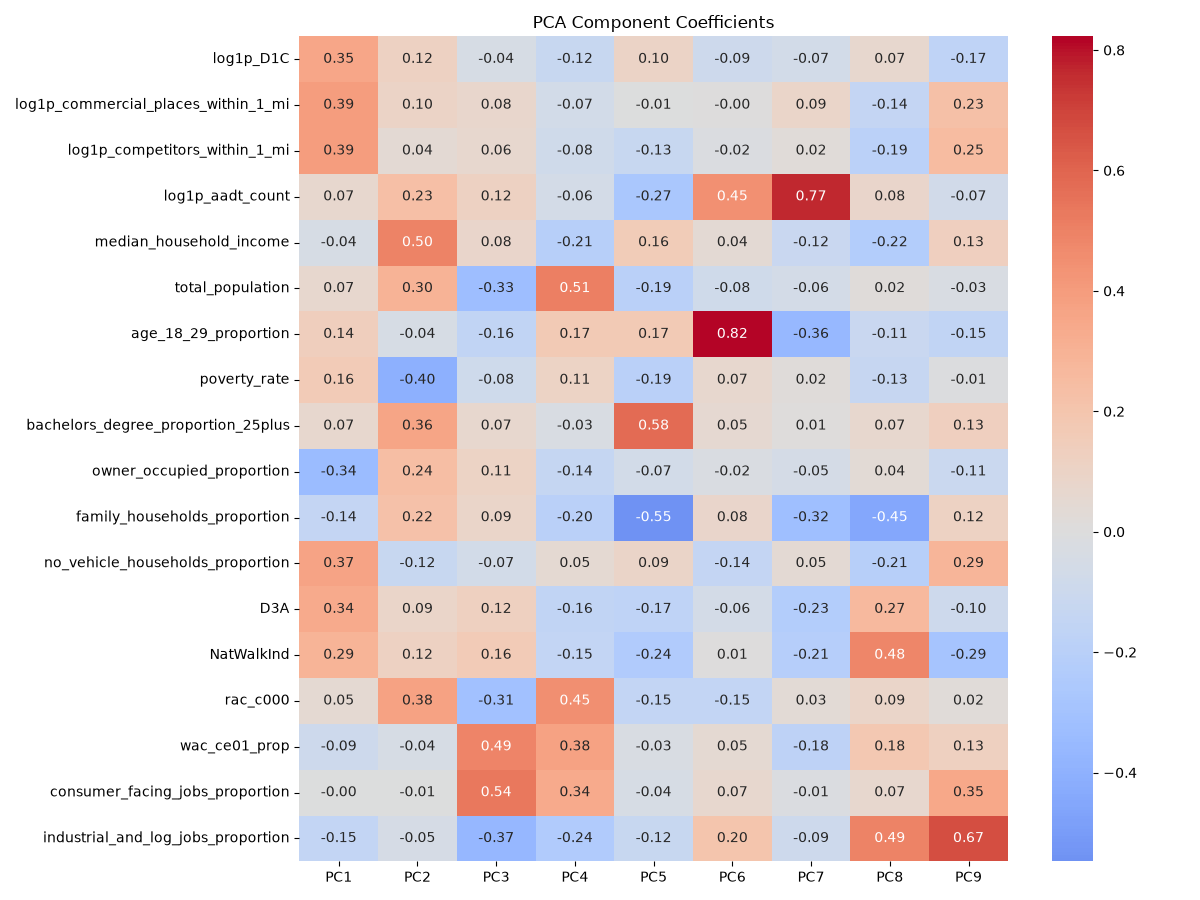
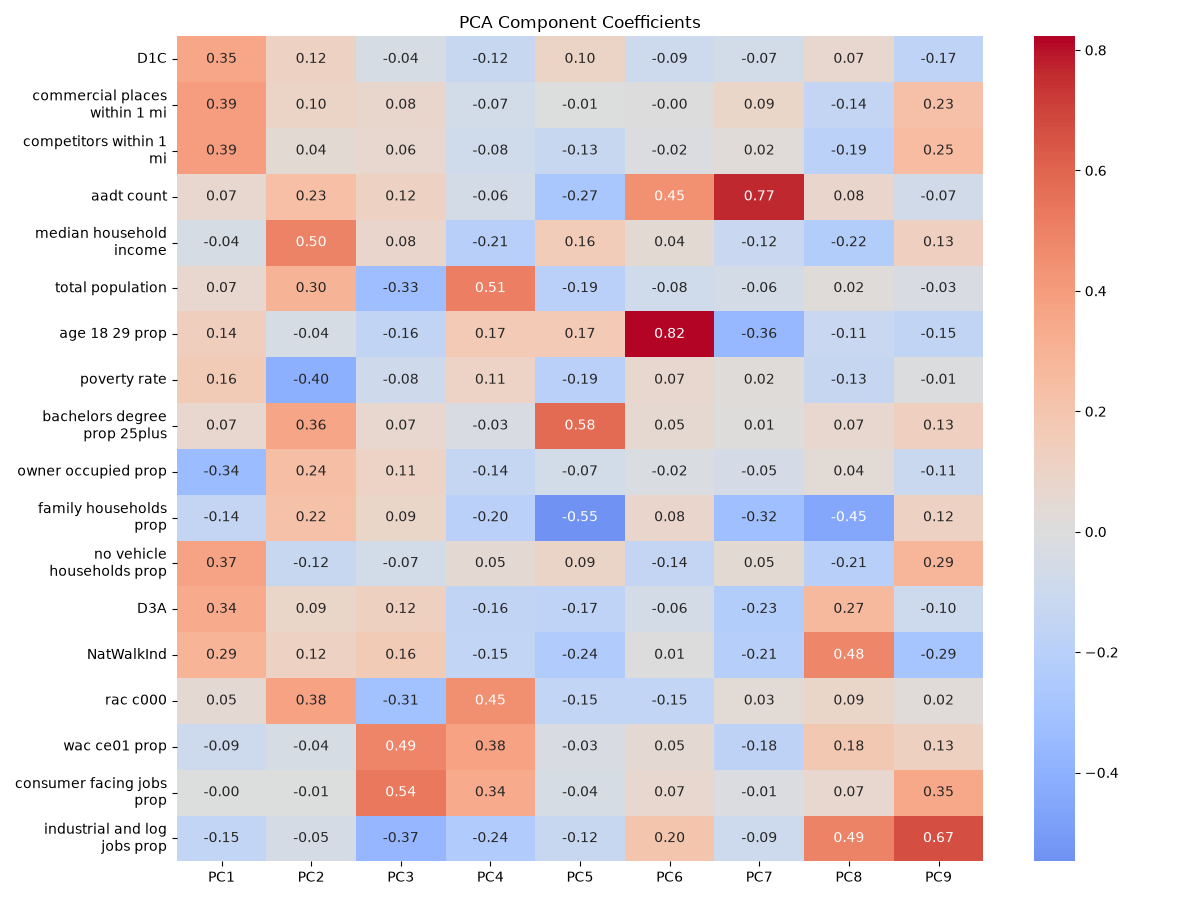
Adjust formatting on PC loading heatmap.

diff --git a/src/unsupervised_clustering/helper_functions.py b/src/unsupervised_clustering/helper_functions.py
@@ -5,11 +5,14 @@ feature_set.py
 This module defines the feature set by which we want to define a lottery retailer's potential "archetype."
 """
 
+import textwrap
+import re
+import math
+
 import pandas as pd
 import numpy as np
 import matplotlib.pyplot as plt
 import seaborn as sns
-import math
 
 CLUSTERING_FEATURES = ['competitors_within_1_mi', 'median_household_income',
        'total_population', 'age_18_29_proportion', 'poverty_rate',
@@ -78,10 +81,26 @@ def scree_plot(pca):
 
 def pc_loading_heatmap(pc_loadings: pd.DataFrame, n_components=9):
 
+    def format_label(label):
+        label = str(label)
+
+        # 1. Remove leading log1p indicators
+        label = re.sub(r"^(?:log1p[_\s]*|log1p__)", "", label, flags=re.I)
+        # 2. Replace proportion with prop
+        label = label.replace("proportion", "prop")
+        # 3. Replace underscores with spaces and wrap long labels
+        label = label.replace("_", " ")
+        if len(label) > 20:
+            label = textwrap.fill(label, width=20)
+        return label
+
+    # Apply formatting without modifying original DataFrame
+    plot_data = pc_loadings.iloc[:, :n_components].copy()
+    plot_data.index = [format_label(col) for col in plot_data.index]
     plt.figure(figsize=(12, 9))
 
     sns.heatmap(
-        pc_loadings.iloc[:, :n_components],
+        plot_data,
         cmap="coolwarm",
         center=0,
         annot=True,
@@ -89,8 +108,25 @@ def pc_loading_heatmap(pc_loadings: pd.DataFrame, n_components=9):
     )
 
     plt.title("PCA Component Coefficients")
+    plt.yticks(rotation=0)
     plt.tight_layout()
     plt.show()
+
+#def pc_loading_heatmap(pc_loadings: pd.DataFrame, n_components=9):
+
+    #plt.figure(figsize=(12, 9))
+
+    #sns.heatmap(
+    #    pc_loadings.iloc[:, :n_components],
+    #    cmap="coolwarm",
+    #    center=0,
+    #    annot=True,
+    #    fmt=".2f"
+    #)
+
+    #plt.title("PCA Component Coefficients")
+    #plt.tight_layout()
+    #plt.show()
 
 def pc_v_pc_scatterplot(X_pca, train_df: pd.DataFrame, pc_x=1, pc_y=2, color_by=None, kind='scatter', agg_func=np.median):
 
